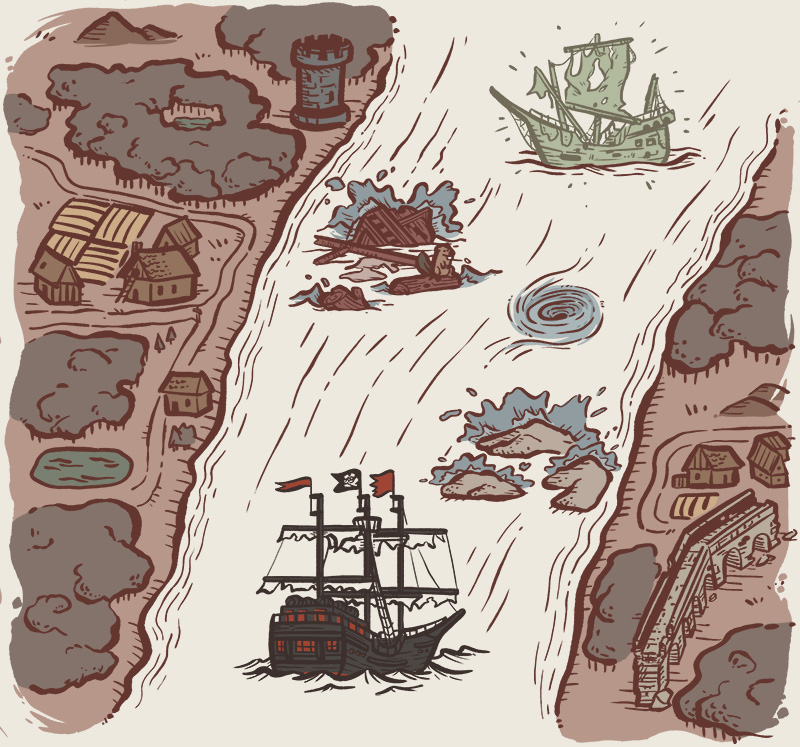
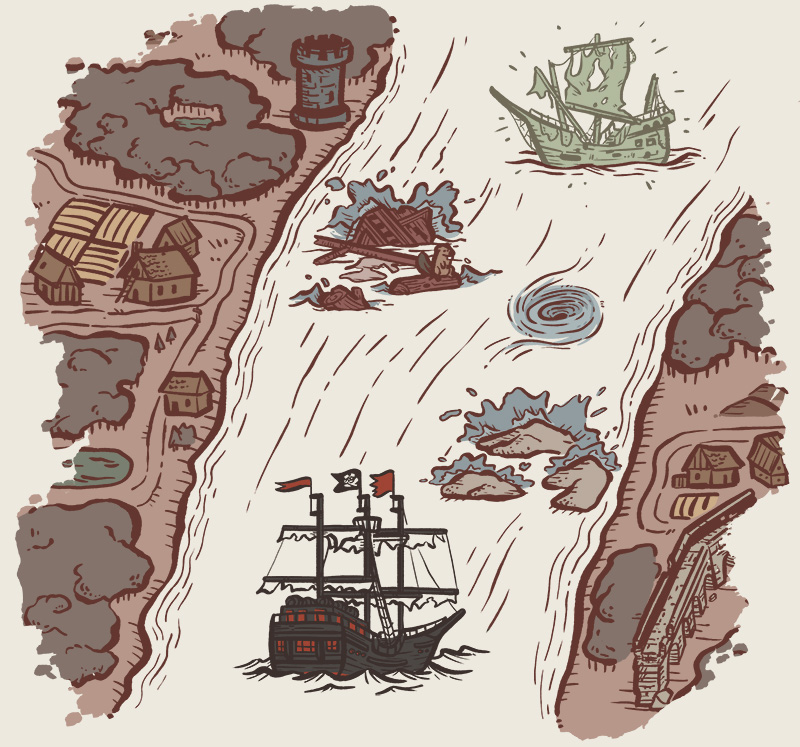
changed routes imgs

diff --git a/index.html b/index.html
@@ -317,8 +317,8 @@
             <!-- ROUTE ITEM -->
             <div class="row align-items-center route-section__item route-section__start">
                 <div class="col-lg-8 route-section__img-container">
-                    <img class="route-section__img img-fluid lazy" data-srcset="images/background-images/rombolusz-remulusz-mobile.jpg 480w,
-                    images/background-images/rombolusz-remulusz.jpg 768w" alt="Rombolusz és Rémülüsz parti kikötő">
+                    <img class="route-section__img img-fluid lazy" data-srcset="images/background-images/szazlapat-kikoto-mobile.jpg 480w,
+                    images/background-images/szazlapat-kikoto.jpg 768w" alt="Rombolusz és Rémülüsz parti kikötő">
                 </div>
                 <div class="col-lg-4">
                     <div class="route-section__text">
@@ -388,7 +388,7 @@
                 </div>
                 <div class="col-lg-7 route-section__img-container">
                     <img class="route-section__img img-fluid lazy"
-                        data-src="images/background-images/map-cape-bravery-01.png" alt="">
+                        data-srcset="images/background-images/sorsfordito-fok-mobile.jpg 480w, images/background-images/sorsfordito-fok.jpg 512w" alt="">
                 </div>
             </div>
             <!-- ROUTE ITEM END -->
